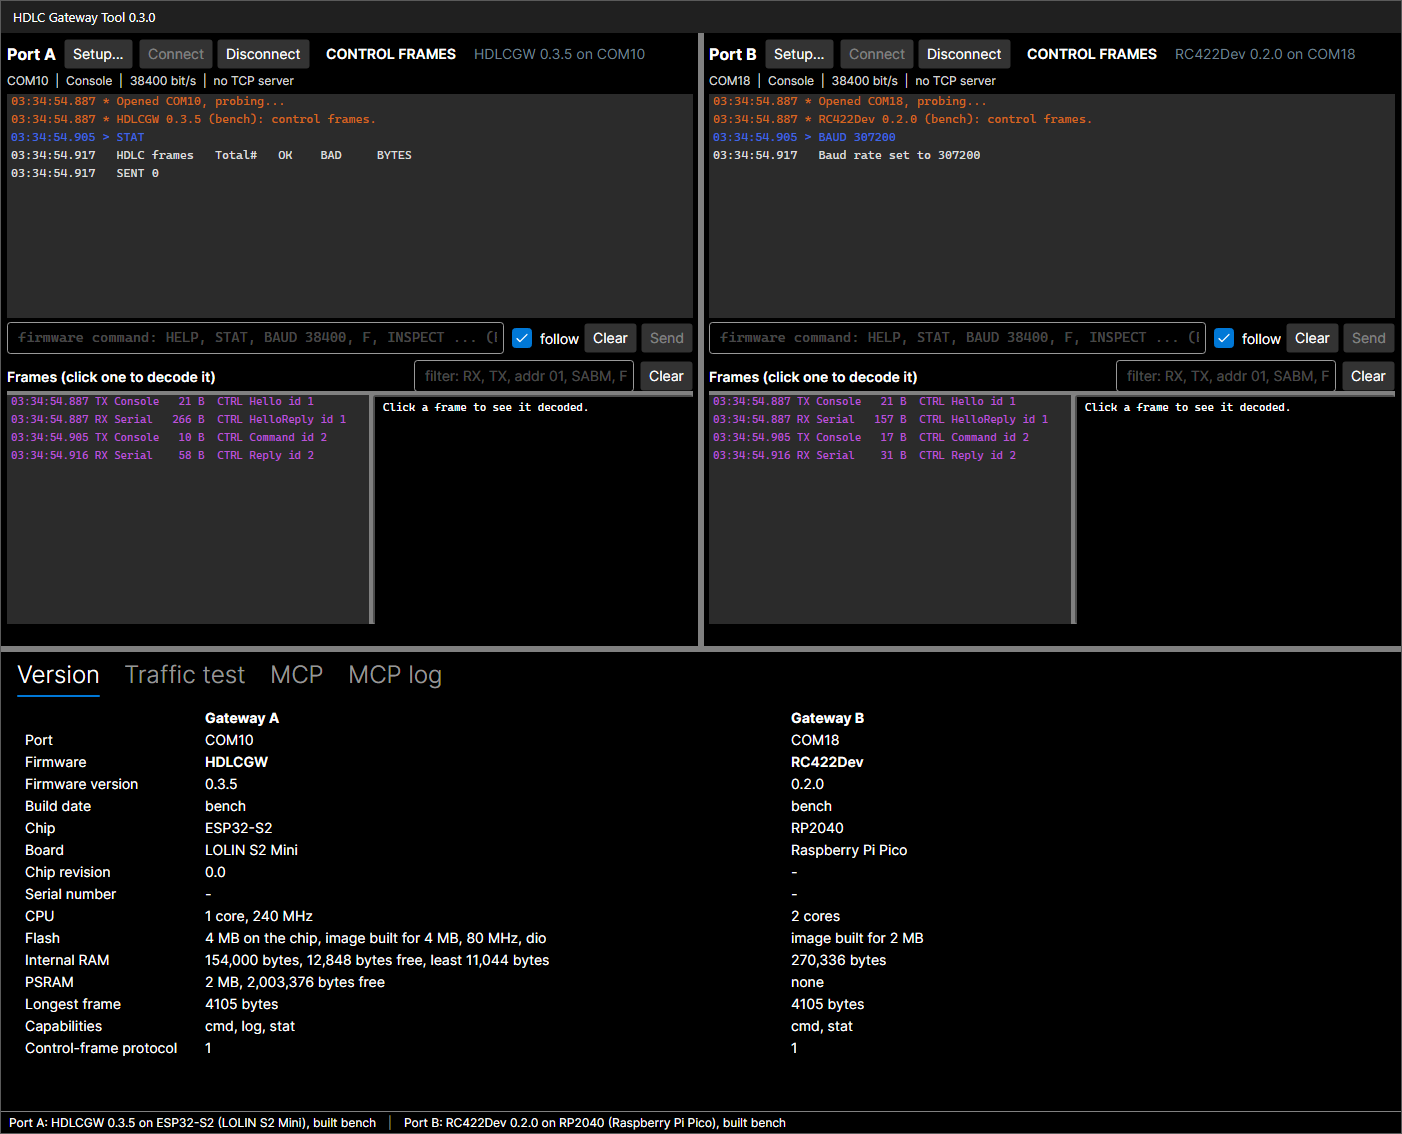
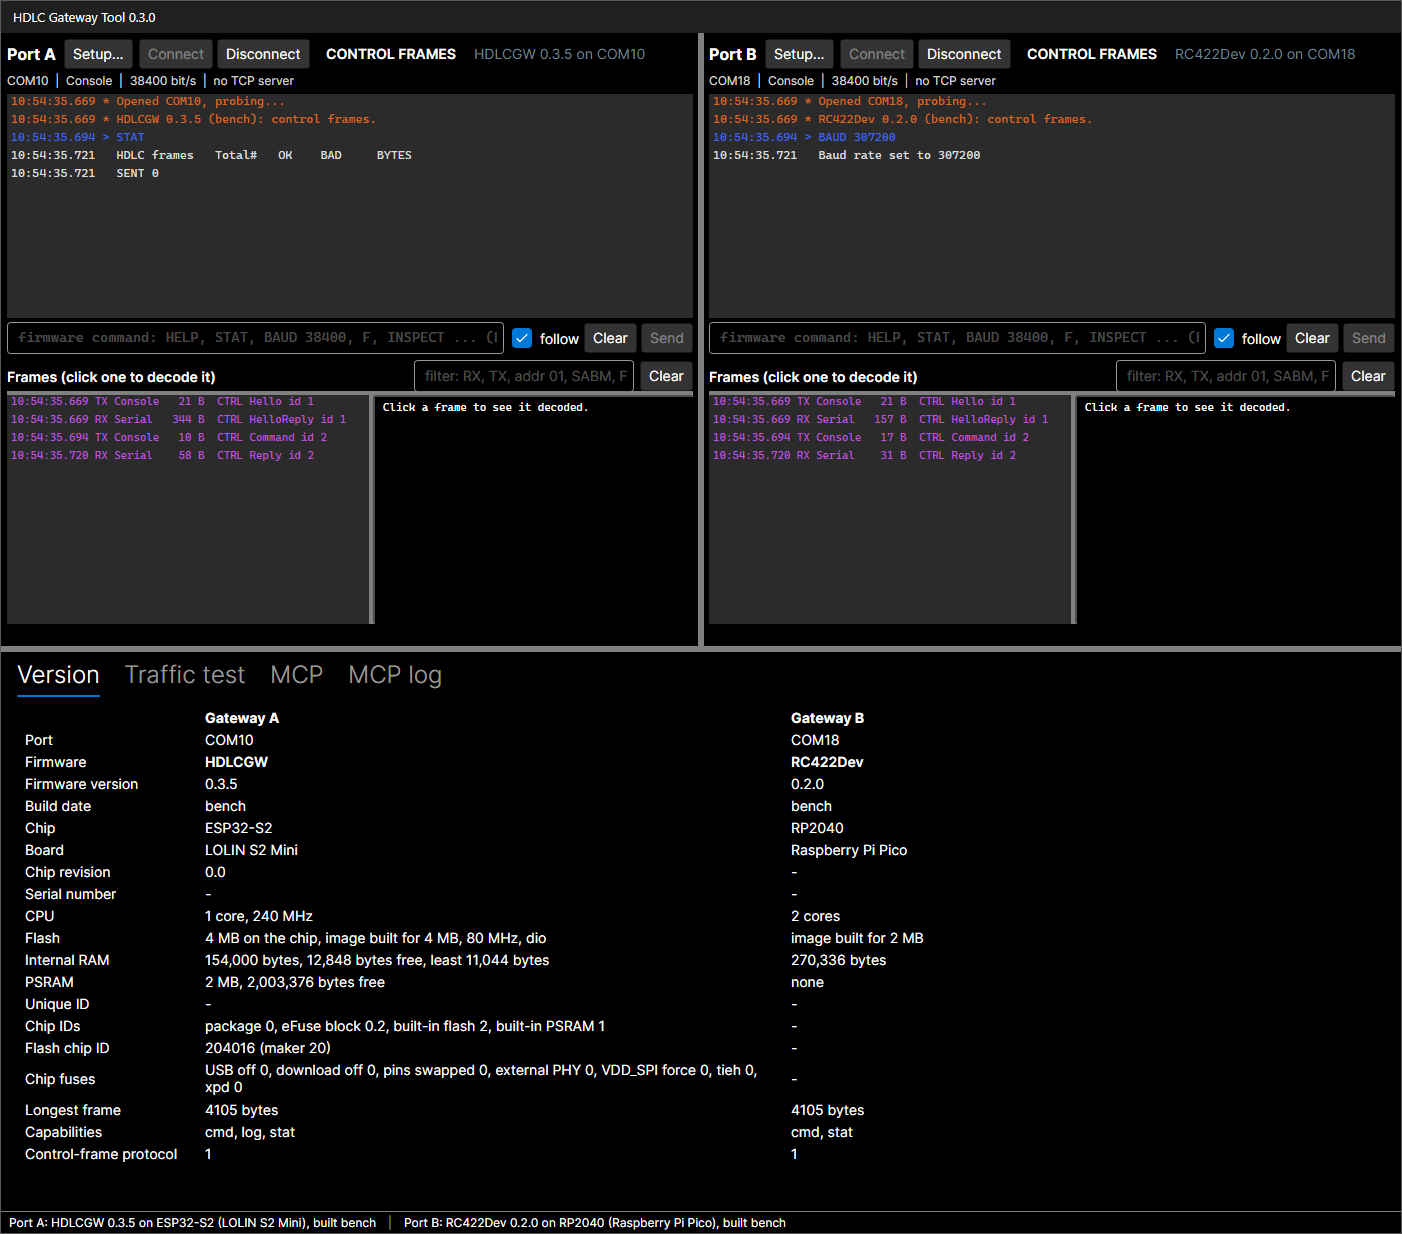
Version tab: unique ID, chip IDs, flash chip ID and chip fuses
Reads the new HELLO keys from HDLCGW (uid, pkg, blkver, embflash,
embpsram, flashid, usbfuse, vddspi) and shows them in four rows, so good
and failing ESP32-S2 boards can be compared side by side. Tests for the
parser and the pane text; pictures made again. 150 tests pass.

diff --git a/src/HdlcGatewayTest.App/ViewModels/GatewayPaneViewModel.cs b/src/HdlcGatewayTest.App/ViewModels/GatewayPaneViewModel.cs
@@ -317,6 +317,31 @@ public sealed class GatewayPaneViewModel : ObservableObject
         i.PsramFree.HasValue ? Bytes(i.PsramFree.Value) + " free" : string.Empty,
         i.PsramBlock.HasValue ? "largest block " + Bytes(i.PsramBlock.Value) : string.Empty));
 
+    /// <summary>The chip's 128-bit unique ID from HELLO.</summary>
+    public string FirmwareUniqueId => Identity(i => i.UniqueId);
+
+    /// <summary>"package 0, eFuse block 0.2, built-in flash 2, built-in PSRAM 1" from HELLO.</summary>
+    public string FirmwareChipIds => Identity(i => Join(
+        i.Package.Length > 0 ? "package " + i.Package : string.Empty,
+        i.EfuseBlockVersion.Length > 0 ? "eFuse block " + i.EfuseBlockVersion : string.Empty,
+        i.EmbeddedFlash.Length > 0 ? "built-in flash " + i.EmbeddedFlash : string.Empty,
+        i.EmbeddedPsram.Length > 0 ? "built-in PSRAM " + i.EmbeddedPsram : string.Empty));
+
+    /// <summary>"204016 (maker 20)" from HELLO: the flash chip's JEDEC ID and its maker byte.</summary>
+    public string FirmwareFlashId => Identity(i => i.FlashId.Length >= 2
+        ? i.FlashId + " (maker " + i.FlashId.Substring(0, 2) + ")"
+        : i.FlashId);
+
+    /// <summary>The USB and flash-supply eFuses from HELLO, each digit named.</summary>
+    public string FirmwareFuses => Identity(i => Join(
+        i.UsbFuses.Length == 4
+            ? "USB off " + i.UsbFuses[0] + ", download off " + i.UsbFuses[1] + ", pins swapped " + i.UsbFuses[2]
+              + ", external PHY " + i.UsbFuses[3]
+            : i.UsbFuses,
+        i.VddSpiFuses.Length == 3
+            ? "VDD_SPI force " + i.VddSpiFuses[0] + ", tieh " + i.VddSpiFuses[1] + ", xpd " + i.VddSpiFuses[2]
+            : i.VddSpiFuses));
+
     /// <summary>A byte count as "4 MB" when it is a whole number of MB, else "12,848 bytes".</summary>
     public static string Bytes(long n)
     {
@@ -817,6 +842,10 @@ public sealed class GatewayPaneViewModel : ObservableObject
         Raise(nameof(FirmwareFlash));
         Raise(nameof(FirmwareRam));
         Raise(nameof(FirmwarePsram));
+        Raise(nameof(FirmwareUniqueId));
+        Raise(nameof(FirmwareChipIds));
+        Raise(nameof(FirmwareFlashId));
+        Raise(nameof(FirmwareFuses));
         Raise(nameof(FirmwareMaxFrame));
         Raise(nameof(FirmwareCapabilities));
         Raise(nameof(FirmwareProtocol));

diff --git a/src/HdlcGatewayTest.Core/GatewayIdentity.cs b/src/HdlcGatewayTest.Core/GatewayIdentity.cs
@@ -110,6 +110,36 @@ public sealed class GatewayIdentity
     /// <summary>Largest free block of PSRAM, in bytes (key "psramblock"), or null when not reported.</summary>
     public long? PsramBlock => GetNumber("psramblock");
 
+    /// <summary>
+    /// The chip's 128-bit unique ID from eFuse, 32 hex digits (key "uid"; ESP32-S2, since
+    /// 2026-11-23). Empty when not reported.
+    /// </summary>
+    public string UniqueId => Get("uid");
+
+    /// <summary>Package number from eFuse (key "pkg"), as sent; empty when not reported.</summary>
+    public string Package => Get("pkg");
+
+    /// <summary>eFuse block version, major.minor (key "blkver"), as sent; empty when not reported.</summary>
+    public string EfuseBlockVersion => Get("blkver");
+
+    /// <summary>Built-in flash version from eFuse (key "embflash"), as sent; empty when not reported.</summary>
+    public string EmbeddedFlash => Get("embflash");
+
+    /// <summary>Built-in PSRAM version from eFuse (key "embpsram"), as sent; empty when not reported.</summary>
+    public string EmbeddedPsram => Get("embpsram");
+
+    /// <summary>The flash chip's JEDEC ID in hex; the top byte names the maker (key "flashid").</summary>
+    public string FlashId => Get("flashid");
+
+    /// <summary>
+    /// The chip's USB eFuses as four digits: USB off, USB download off, pins swapped, external
+    /// PHY (key "usbfuse"); empty when not reported.
+    /// </summary>
+    public string UsbFuses => Get("usbfuse");
+
+    /// <summary>The flash supply eFuses as three digits: force, tieh, xpd (key "vddspi").</summary>
+    public string VddSpiFuses => Get("vddspi");
+
     /// <summary>Capability words from the caps key.</summary>
     public IReadOnlyList<string> Capabilities => _capabilities;
 

diff --git a/src/tests/HdlcGatewayTest.Core.Tests/GatewayConsoleTests.cs b/src/tests/HdlcGatewayTest.Core.Tests/GatewayConsoleTests.cs
@@ -158,7 +158,9 @@ public sealed class GatewayConsoleTests
         string text = "name=HDLCGW\nversion=0.3.6\nchip=ESP32-S2\nrev=0.0\nserial=7CDFA1E2B3C4\ncores=1\nmhz=240\n"
                       + "flash=4194304\nflashimage=4194304\nflashmhz=80\nflashmode=qio\n"
                       + "ram=154000\nramfree=12848\nramleast=11044\nramblock=8192\n"
-                      + "psram=2097152\npsramfree=2003376\npsramblock=1966068\n";
+                      + "psram=2097152\npsramfree=2003376\npsramblock=1966068\n"
+                      + "pkg=0\nblkver=0.2\nembflash=2\nembpsram=1\nuid=2799C19520D9D46748C31F778D199E61\n"
+                      + "flashid=204016\nusbfuse=0000\nvddspi=000\n";
         byte[] payload = new byte[1 + Encoding.UTF8.GetByteCount(text)];
         payload[0] = 1;
         Encoding.UTF8.GetBytes(text, 0, text.Length, payload, 1);
@@ -179,6 +181,14 @@ public sealed class GatewayConsoleTests
         Assert.That(id.PsramBytes, Is.EqualTo(2097152));
         Assert.That(id.PsramFree, Is.EqualTo(2003376));
         Assert.That(id.PsramBlock, Is.EqualTo(1966068));
+        Assert.That(id.Package, Is.EqualTo("0"));
+        Assert.That(id.EfuseBlockVersion, Is.EqualTo("0.2"));
+        Assert.That(id.EmbeddedFlash, Is.EqualTo("2"));
+        Assert.That(id.EmbeddedPsram, Is.EqualTo("1"));
+        Assert.That(id.UniqueId, Is.EqualTo("2799C19520D9D46748C31F778D199E61"));
+        Assert.That(id.FlashId, Is.EqualTo("204016"));
+        Assert.That(id.UsbFuses, Is.EqualTo("0000"));
+        Assert.That(id.VddSpiFuses, Is.EqualTo("000"));
     }
 
     [Test]

diff --git a/src/tests/HdlcGatewayTest.App.Tests/Screenshots.cs b/src/tests/HdlcGatewayTest.App.Tests/Screenshots.cs
@@ -42,7 +42,8 @@ public sealed class Screenshots
     private const string EspHello =
         "name=HDLCGW\nversion=0.3.5\nbuild=bench\nchip=ESP32-S2\nboard=LOLIN S2 Mini\nmaxframe=4105\ncaps=cmd,log,stat\n"
         + "rev=0.0\ncores=1\nmhz=240\nflash=4194304\nflashimage=4194304\nflashmhz=80\nflashmode=dio\n"
-        + "ram=154000\nramfree=12848\nramleast=11044\npsram=2097152\npsramfree=2003376\n";
+        + "ram=154000\nramfree=12848\nramleast=11044\npsram=2097152\npsramfree=2003376\n"
+        + "pkg=0\nblkver=0.2\nembflash=2\nembpsram=1\nflashid=204016\nusbfuse=0000\nvddspi=000\n";
 
     private const string PicoHello =
         "name=RC422Dev\nversion=0.2.0\nbuild=bench\nchip=RP2040\nboard=Raspberry Pi Pico\nmaxframe=4105\ncaps=cmd,stat\n"
@@ -130,8 +131,8 @@ public sealed class Screenshots
             // a taller tab row (300 pixels in MainWindow.axaml; a user drags the bar above it).
             Grid root = (Grid)window.Content!;
             GridLength tabRow = root.RowDefinitions[2].Height;
-            window.Height = 1100;
-            root.RowDefinitions[2].Height = new GridLength(460);
+            window.Height = 1200;
+            root.RowDefinitions[2].Height = new GridLength(560);
             SelectTab(window, "Version");
             Save(window, "02-connected-version", theme);
             root.RowDefinitions[2].Height = tabRow;

diff --git a/src/tests/HdlcGatewayTest.App.Tests/GatewayPaneViewModelTests.cs b/src/tests/HdlcGatewayTest.App.Tests/GatewayPaneViewModelTests.cs
@@ -279,6 +279,11 @@ public sealed class GatewayPaneViewModelTests
         Assert.That(vm.FirmwareFlash, Is.EqualTo("4 MB on the chip, image built for 2 MB, 80 MHz, dio"));
         Assert.That(vm.FirmwareRam, Is.EqualTo("323,204 bytes, 216,156 bytes free, least 200,388 bytes, largest block 110,580 bytes"));
         Assert.That(vm.FirmwarePsram, Is.EqualTo("none"));
+        Assert.That(vm.FirmwareUniqueId, Is.EqualTo("00112233445566778899AABBCCDDEEFF"));
+        Assert.That(vm.FirmwareChipIds, Is.EqualTo("package 0, eFuse block 0.2, built-in flash 2, built-in PSRAM 1"));
+        Assert.That(vm.FirmwareFlashId, Is.EqualTo("204016 (maker 20)"));
+        Assert.That(vm.FirmwareFuses, Is.EqualTo(
+            "USB off 0, download off 0, pins swapped 1, external PHY 0, VDD_SPI force 0, tieh 0, xpd 1"));
         Assert.That(vm.FirmwareCapabilities, Is.EqualTo("cmd, log, stat"));
         Assert.That(vm.FirmwarePort, Is.EqualTo("GOOD"));
         Assert.That(vm.VersionSummary, Is.EqualTo("Port A: FAKEGW 0.2.0 on FAKE1 (Test bench), built test"));

diff --git a/src/tests/HdlcGatewayTest.Core.Tests/FakeGateway.cs b/src/tests/HdlcGatewayTest.Core.Tests/FakeGateway.cs
@@ -72,7 +72,9 @@ public sealed class FakeGateway
     public string HelloText { get; set; } =
         "name=FAKEGW\nversion=0.2.0\nbuild=test\nchip=FAKE1\nboard=Test bench\nmaxframe=1024\ncaps=cmd,log,stat\n"
         + "rev=1.0\nserial=0011223344AA\ncores=2\nmhz=240\nflash=4194304\nflashimage=2097152\nflashmhz=80\nflashmode=dio\n"
-        + "ram=323204\nramfree=216156\nramleast=200388\nramblock=110580\npsram=0\n";
+        + "ram=323204\nramfree=216156\nramleast=200388\nramblock=110580\npsram=0\n"
+        + "pkg=0\nblkver=0.2\nembflash=2\nembpsram=1\nuid=00112233445566778899AABBCCDDEEFF\nflashid=204016\n"
+        + "usbfuse=0010\nvddspi=001\n";
 
     /// <summary>Current transmit clock, set by BAUD.</summary>
     public uint Baud { get; private set; } = 38400;
